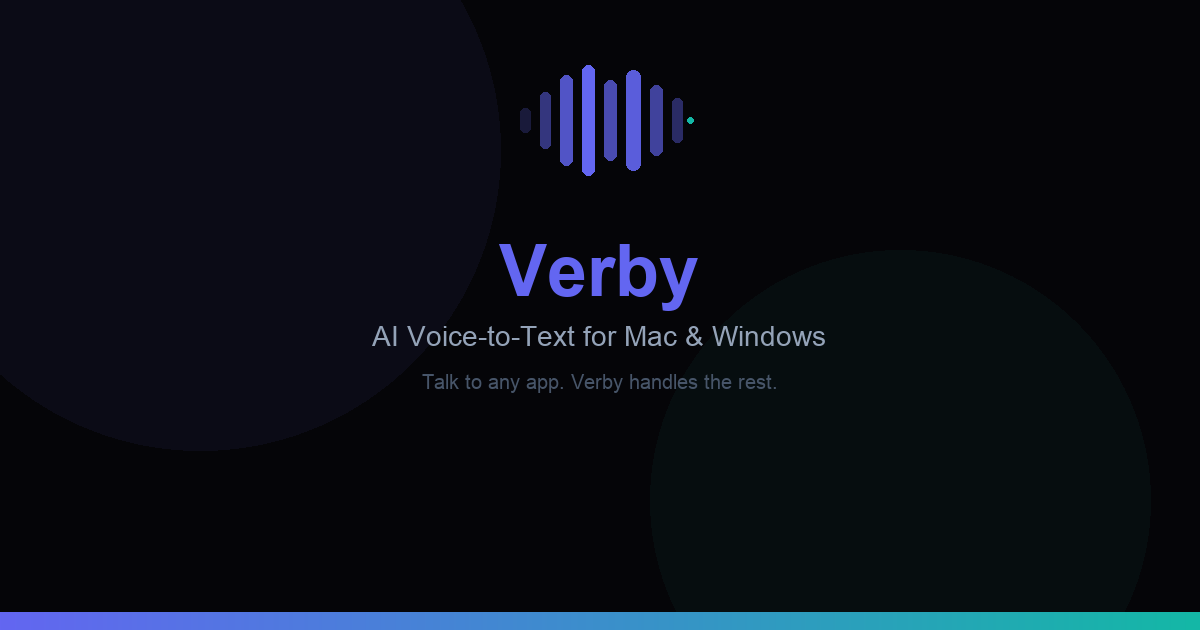
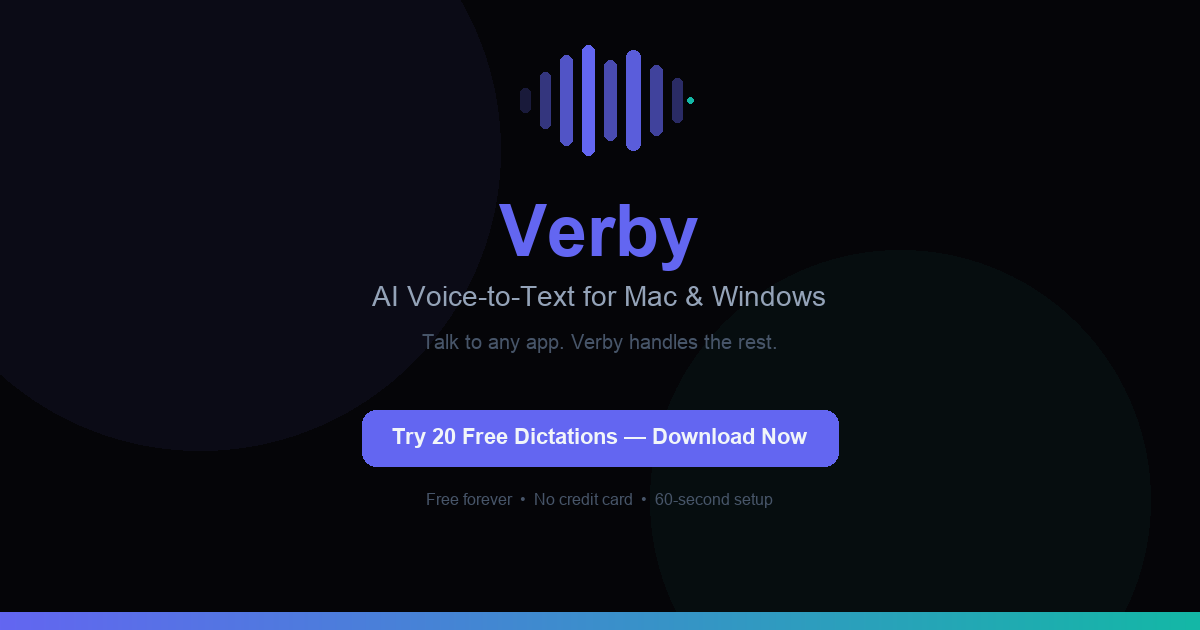
fix: optimize OG title to 60 chars + add CTA to homepage OG image

diff --git a/site/index.html b/site/index.html
@@ -9,7 +9,7 @@
   <meta name="keywords" content="voice to text app, AI dictation software, speech to text desktop, voice typing Mac, voice typing Windows, AI email generator, voice prompt tool, hands free typing">
   <link rel="canonical" href="https://verbyai.com/">
   <!-- Open Graph / Social -->
-  <meta property="og:title" content="Verby — AI Voice-to-Text App for Mac & Windows">
+  <meta property="og:title" content="Verby — Free AI Voice-to-Text App for Mac | Try 20 Free Dictations">
   <meta property="og:description" content="Talk to any app. Verby turns your voice into emails, AI prompts, and clean text — injected at your cursor. Free for Mac and Windows.">
   <meta property="og:type" content="website">
   <meta property="og:url" content="https://verbyai.com">
